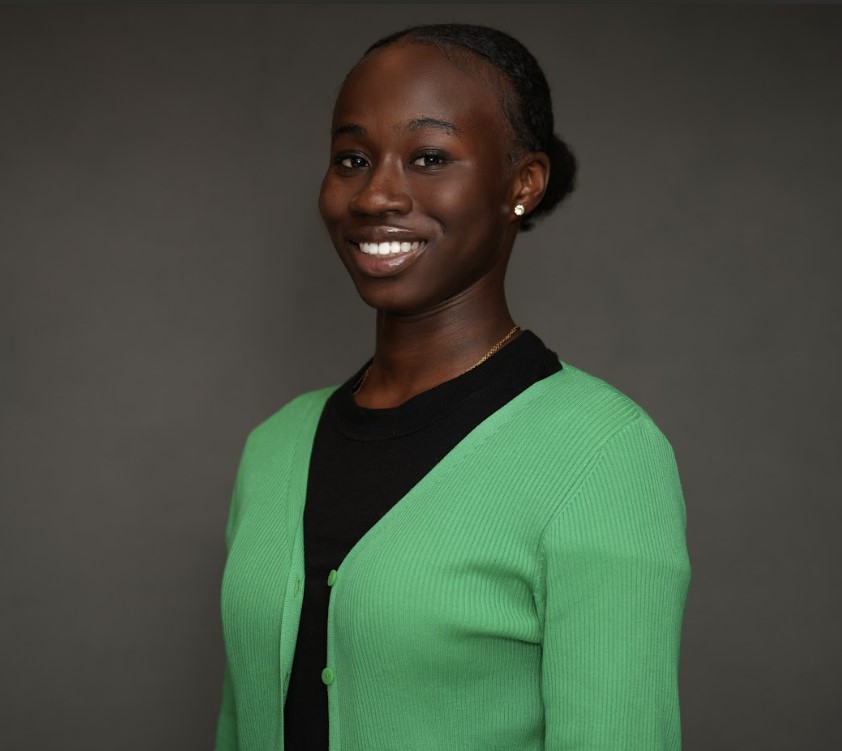
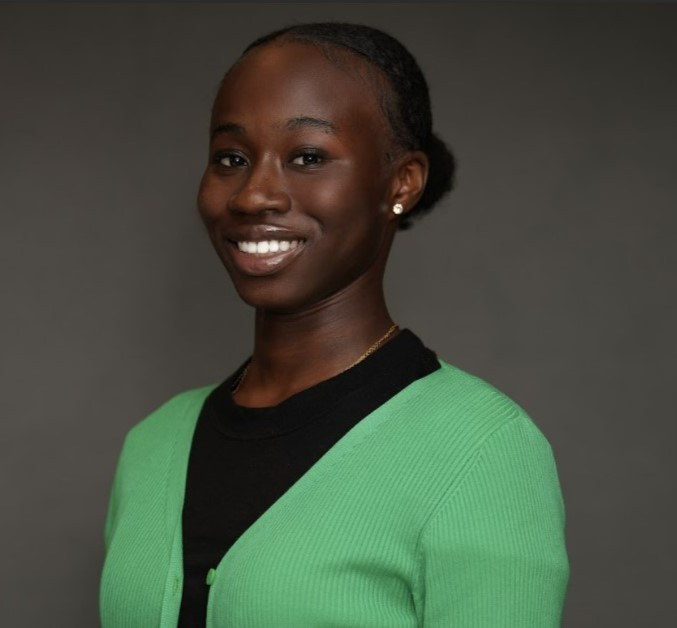
Fixed kelly and Franklin's pictures. Fixed bios.

Changed region(s): [[0.1241, 0.0303, 0.8375, 1.0]]

diff --git a/src/Supporting/Leadership-Constants.js b/src/Supporting/Leadership-Constants.js
@@ -158,7 +158,7 @@ export const cards = [
         // insta: 'https://www.instagram.com/kaylaspray/',
         linkedIn: "http://linkedin.com/in/mnumzana-franklin-moyo-37b8ba180",
         askAbout: ["TV series", "Volleyball", "Cooking meat"],
-        bio: "I am a sophomore studying Computer Science in the college of Arts & Sciences. I am from Zimbabwe (very proud)! I do not enjoy reading. I prefer watching instead.",
+        bio: "I am a sophomore studying Computer Science in the college of Arts & Sciences. I am from Zimbabwe (very proud)! I do not enjoy reading. I prefer watching movies instead. In my freetime, I like to play volleyball with my friends and cook.",
         popup: true
     },
     {
@@ -210,7 +210,7 @@ export const cards = [
         // insta: 'https://www.instagram.com/kaylaspray/',
         linkedIn: "https://www.linkedin.com/in/richlove-nkansah-6374291b5/",
         askAbout: ["Hiking", "adventure", "karaoke."],
-        bio: "Richlove is a sophomore in A&S studying Computer Science with a minor in Cognitive Science. She enjoys long walks, cooking, and dancing. She is the eldest of 5 siblings and speaks 4 languages.",
+        bio: "Richlove is a sophomore in A&S studying Computer Science with a minor in Cognitive Science. She enjoys long walks with beautiful scenery, cooking, and dancing. She is the eldest of 5 siblings and speaks 4 languages.",
         popup: true
     },
     {
